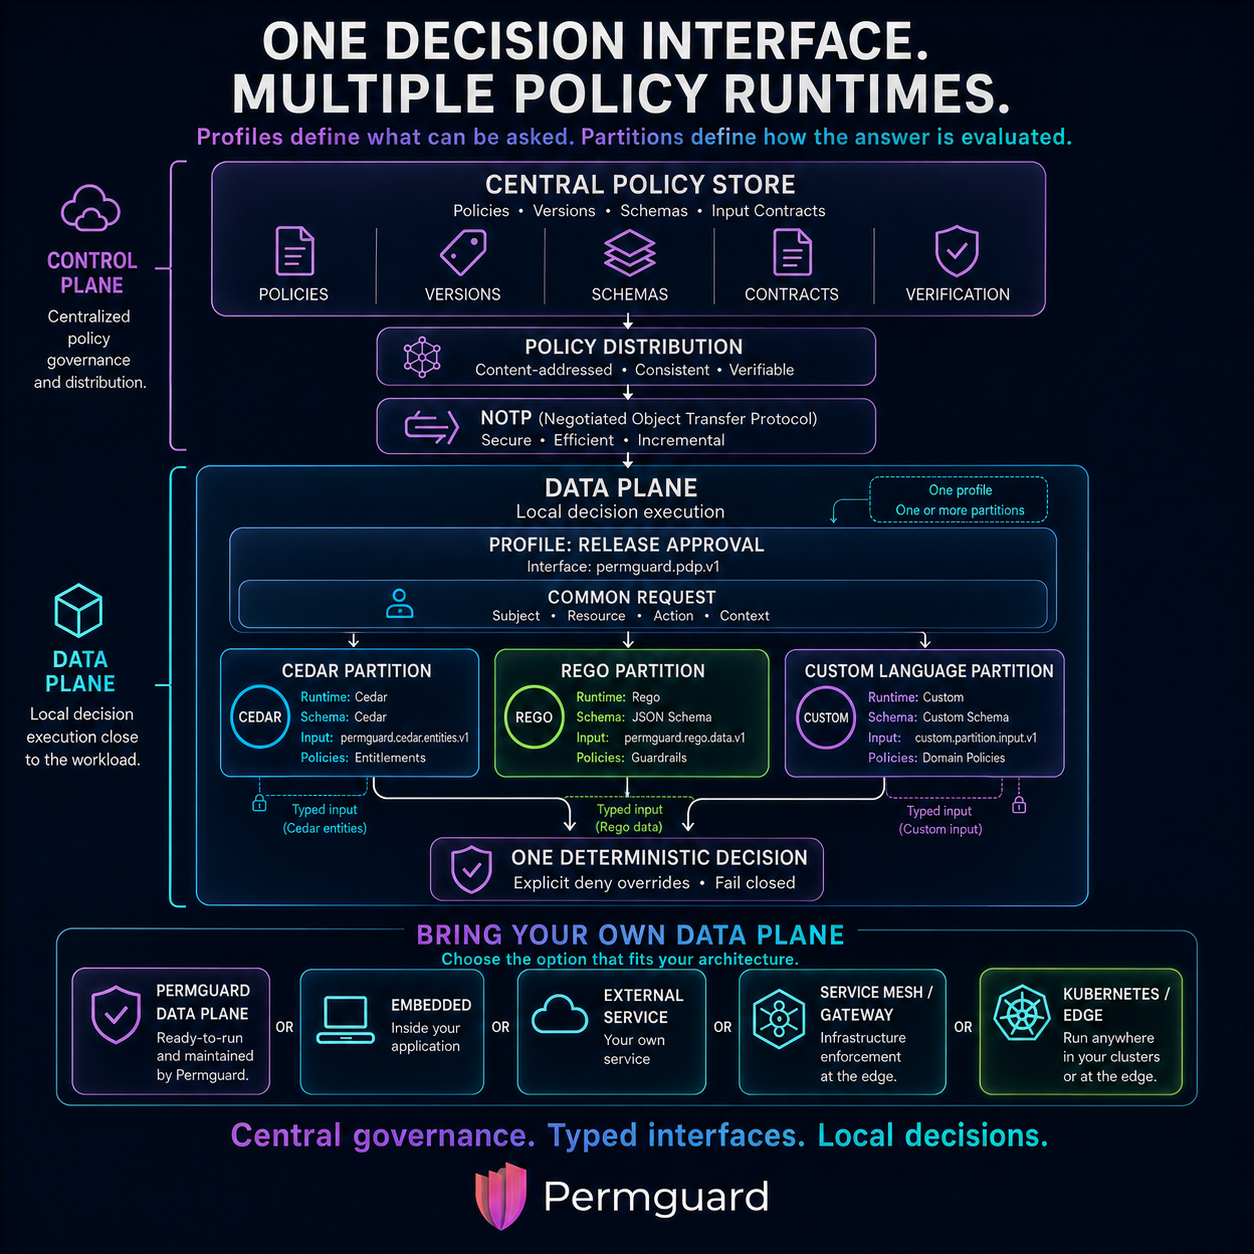
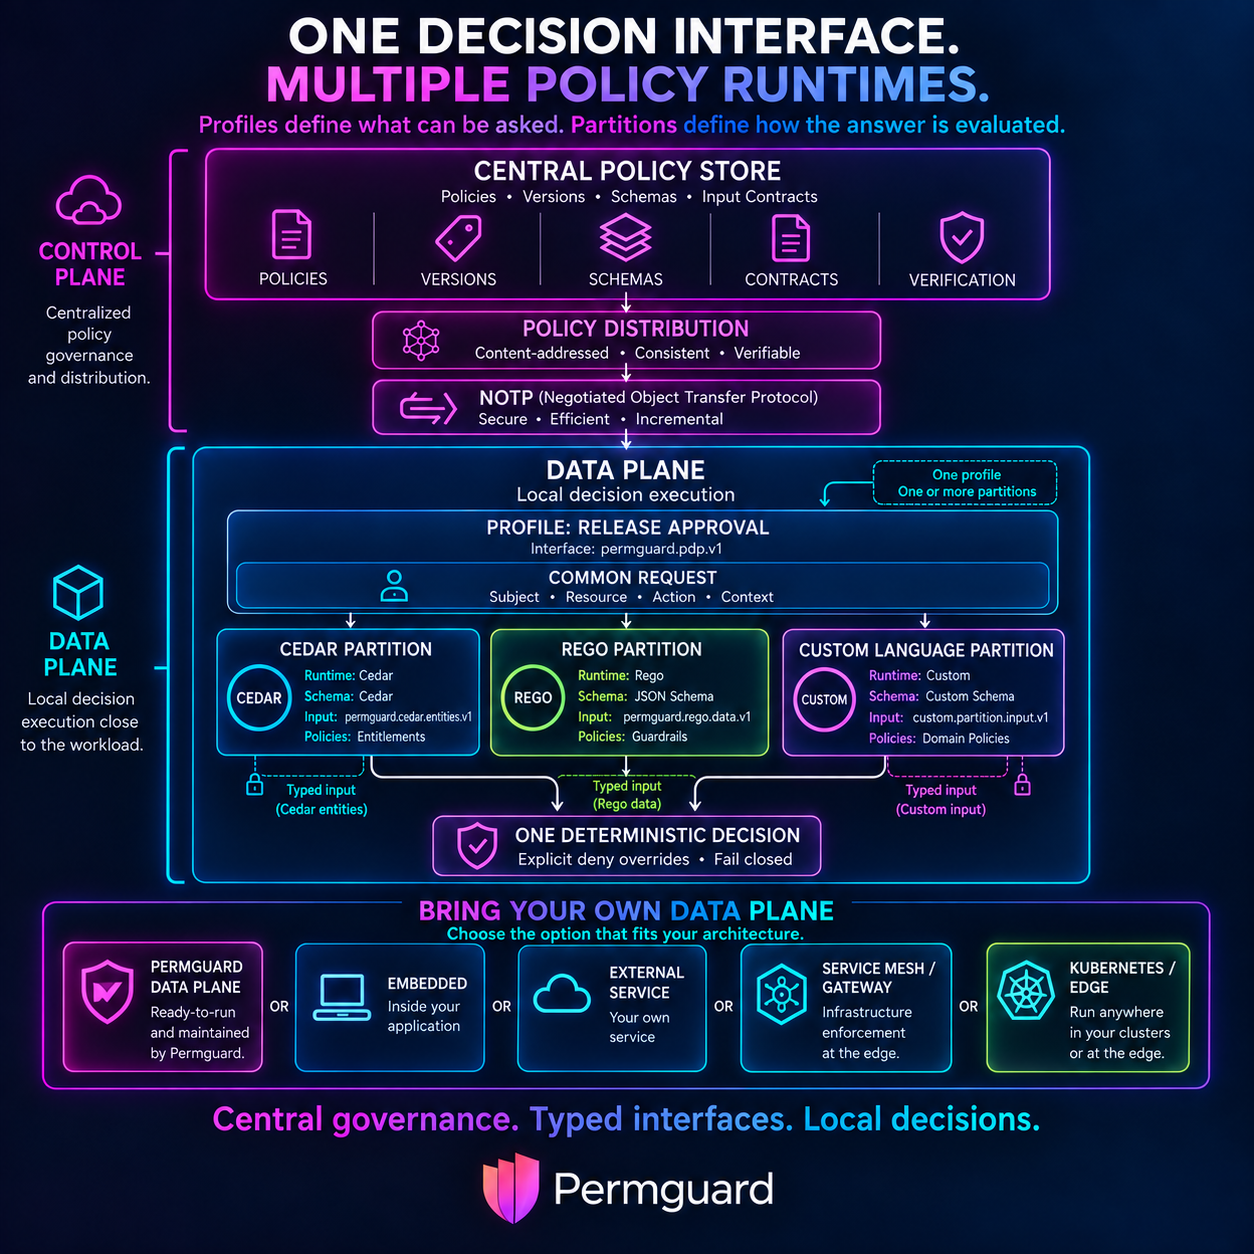
refactor: working on permguard agentic fabric

diff --git a/README.md b/README.md
@@ -1,137 +1,65 @@
+<!-- Copyright (c) 2022 Nitro Agility S.r.l. -->
+<!-- SPDX-License-Identifier: Apache-2.0 -->
+
 # Permguard
 
+[![GitHub Org's stars](https://img.shields.io/github/stars/permguard)](https://github.com/permguard/permguard/stargazers)
+[![GitHub forks](https://img.shields.io/github/forks/permguard/permguard)](https://github.com/permguard/permguard/network/members)
+[![GitHub Issues or Pull Requests](https://img.shields.io/github/issues/permguard/permguard)](https://github.com/permguard/permguard/issues)
+[![GitHub Issues or Pull Requests](https://img.shields.io/github/issues-pr/permguard/permguard)](https://github.com/permguard/permguard/pulls)
+[![GitHub contributors](https://img.shields.io/github/contributors/permguard/permguard)](https://github.com/permguard/permguard/graphs/contributors)
+[![GitHub License](https://img.shields.io/github/license/permguard/permguard)](https://github.com/permguard/permguard/blob/main/LICENSE)
+[![X (formerly Twitter) Follow](https://img.shields.io/twitter/follow/permguard)](https://x.com/intent/follow?original_referer=https%3A%2F%2Fdeveloper.x.com%2F&ref_src=twsrc%5Etfw%7Ctwcamp%5Ebuttonembed%7Ctwterm%5Efollow%7Ctwgr%5ETwitterDev&screen_name=Permguard)
+
 <p align="center">
-  <img src="assets/permguard-banner.png" alt="Permguard" width="820">
+  <img src="https://raw.githubusercontent.com/permguard/.github/main/assets/permguard-platform-banner.png" alt="Permguard" width="820">
+</p>
+
+**Authorization and trusted execution, versioned like code and shipped like code.**
+
+Permguard is an open-source platform for authorization and trusted execution, created by [Nitro Agility](https://www.nitroagility.com/).
+It is made of two projects that share one model: authority is versioned, signed, and verifiable after the fact.
+**Permguard** decides what a subject may do, from policies kept in a content-addressed ledger.
+**Permguard Agentic Fabric** carries that authority into the execution of AI agents, so that what an agent does never exceeds what it was granted.
+
+## Permguard
+
+<p align="center">
+  <img src="https://raw.githubusercontent.com/permguard/.github/main/assets/permguard-banner.png" alt="Permguard" width="820">
 </p>
 
 **Authorization policy, versioned like code and shipped like code.**
 
-Permguard keeps your policies in a content-addressed, Git-like ledger, distributes signed
-versions over a protocol built for it, and answers `can this subject do this to this?` —
-either from its own data plane, or from **inside your process, at zero network cost**.
+Permguard keeps your policies in a content-addressed, Git-like ledger and distributes signed versions over a protocol built for it.
+It answers `can this subject do this to this?` either from its own data plane, or from inside your process, at zero network cost.
 
-```text
-       authors + CI                     ┌──────────────────┐
-            │                           │  CONTROL  PLANE  │        the ledger
-     permguard apply ────── NOTP ──────►│                  │   commits · trees · blobs
-            │                           │  zones · ledgers │   signed heads · audit
-            │                           └────────┬─────────┘
-            │                                    │  NOTP: pull the objects,
-            ▼                                    │  verify the signed head
-    ┌───────────────┐                            │
-    │   workspace   │                ┌───────────┴───────────┐
-    │  manifest.yml │                ▼                       ▼
-    │  cedar/ rego/ │       ┌─────────────────┐    ┌───────────────────────┐
-    │  requests/    │       │   DATA  PLANE   │    │   YOUR  RUNTIME       │
-    │  tests/       │       │  Permguard PDP  │    │  embed · sidecar      │
-    └───────┬───────┘       │  HTTP · gRPC    │    │  same objects,        │
-            │               └────────┬────────┘    │  same engines         │
-    permguard test                   │             └───────────┬───────────┘
-   (decide it offline,               └──────────┬──────────────┘
-    no plane at all)                            │
-                                       decisions + signed log
-                                                │
-                                                ▼
-                                        back to the control plane,
-                                        verifiable after the fact
-```
+- **Policy is a repository**, not a blob: every decision cites the exact commit and the identity of the policy that decided it.
+- **One question, many engines**: a ledger holds Cedar and Rego partitions side by side, with Dogwood as an experimental third, and an explicit deny from any partition wins.
+- **Bring your own data plane**: pull the ledger and evaluate in your own process, with the same manifest, the same engines, and the same answer.
+- **Decisions are evidence**: every decision can be recorded in a hash-chained log and verified afterwards by somebody who does not trust the plane that wrote it.
 
-## Why this is not another policy server
+Repository: [permguard/permguard](https://github.com/permguard/permguard).
+Documentation: [docs.permguard.com](https://docs.permguard.com/).
 
-**Policy is a repository, not a blob.** `init`, `validate`, `plan`, `apply`, `pull`, `history` —
-a workspace on disk, commits, trees and blobs, all content-addressed. A decision does not cite
-"the policy that was live"; it cites the **exact commit** and the **identity of the policy** that
-decided, and those identities survive a rename. You can check out the state a decision was made
-against, months later, and re-ask the question.
+## Permguard Agentic Fabric
 
-**One question, many engines.** A ledger holds **partitions** — Cedar here, Rego there — and a
-**profile** says which of them answer. `admin` consults the org chart *and* the guardrails;
-`pipeline` consults the rules for machines and loads nothing else. An explicit deny from any
-partition beats a permit from another, so "who is entitled" and "is it safe right now" can be
-written by different people, in different languages, and still compose.
+<p align="center">
+  <img src="https://raw.githubusercontent.com/permguard/.github/main/assets/permguard-agentic-fabric-banner.png" alt="Permguard Agentic Fabric" width="820">
+</p>
 
-### Supported policy languages
+**Trusted execution for AI agents, under authority that never expands.**
 
-| Language | Runtime | Decides from | Status |
-| --- | --- | --- | --- |
-| [Cedar](https://www.cedarpolicy.com) | `cedar` (`cedar-policy` 4.x) | the request | stable |
-| [Rego](https://www.openpolicyagent.org/docs/policy-language) | `rego` (`regorus`) | the request | stable |
-| [Dogwood](https://github.com/dogwood-policy/dogwood) | `dogwood` (`amzn-dogwood-language`) | the request **and** a durable history | experimental |
+Permguard Agentic Fabric is the layer where AI agents run and act on the outside world under Permguard's control.
+Agents think and propose.
+The fabric decides what may execute, moves the work across services, and keeps every step bound to the authority it inherited.
 
-A language is a **build**, not a deployment action: all three are compiled in. What a deployment
-chooses is whether a ledger naming a runtime will be *served*, and the experimental one is gated —
-see below.
+It is made of two parts.
+The **Agentic Execution Fabric (AEF)** coordinates distributed execution.
+The **Agentic Trust Fabric (ATF)** preserves trust and authority continuity across that execution.
 
-### Experimental: Dogwood, and deciding from what has happened
+Repository: [permguard/permguard-agentic-fabric](https://github.com/permguard/permguard-agentic-fabric).
 
-Cedar and Rego answer *may this subject do this to this?* from the request in front of them.
-[Dogwood](https://github.com/dogwood-policy/dogwood) is Cedar plus **history**: a policy may ask what has
-happened recently — `formerly`, `since`, aggregations over a window — as well as what is being
-asked now.
-
-```cedar
-@id("read_only_after_login")
-permit (principal, action == Drupe::Action::"Read", resource)
-when temporal {
-  formerly within 1h Drupe::Action::"Login"::response{ input.user: context.input.user }
-};
-```
-
-Answering that takes a durable history, so Dogwood is served through a second interface,
-`permguard.api.pdp.temporal.v1alpha1`: an occurrence is recorded into a hash-chained journal, made
-durable, observed, and only then decided against. Upstream supplies the language, its lowering to
-Cedar, validation and the per-request authorizer, and is explicit that its included interpreter is a
-**reference** implementation rather than a production one. Permguard supplies what a deployment
-needs around it — the policy lifecycle, multi-tenancy, a durable and bounded event history,
-provenance, replication, limits and operational safety.
-
-It is **experimental**, and gated by two switches that must both be set:
-
-```yaml
-experimental:
-  dogwood:
-    enabled: "true"        # this deployment accepts a contract that is not yet stable
-
-dataPlane:
-  events:
-    enabled: "true"        # this plane keeps a durable event history
-    producer_id: data-plane-eu-1
-```
-
-Saying one and not the other refuses to start, by name. `v1alpha1` is honest: the wire and
-replication shapes may still change, and the switch is what makes accepting that a decision rather
-than a default that moved.
-
-Working configurations ship as `config.local-dogwood.yml` beside each server crate, and
-[`examples/dogwood-session-access`](https://github.com/permguard/permguard/tree/main/examples/dogwood-session-access) is a whole ledger — schemas,
-policies, and a test that asserts the verdicts its README claims. The contract is documented under
-[Temporal Interface](https://docs.permguard.com/data-plane/temporal-interface).
-
-**Bring your own data plane.** The objects are self-describing and the engines are a library.
-Run Permguard's data plane, or pull the ledger and evaluate **in your own process** — no PDP hop,
-no network on the decision path, the same manifest, the same engines, the same answer.
-`permguard test` is that path, in the CLI: it decides a workspace off disk, before anything is
-pushed anywhere.
-
-**NOTP, not "an API".** Policy distribution is content-addressed transfer with negotiation — send
-what the other side is missing, and nothing else — over HTTP or gRPC, with a **signed head** at
-the end of it. A data plane refuses a ledger whose head it cannot verify, and refuses one whose
-engine range it is outside: an engine interpreting the same policies differently is a silent
-authorization bypass, not a compatibility note.
-
-**Decisions are evidence.** Every decision can be recorded with the commit, the policy identity,
-the reason, and **keyed commitments** over what the caller supplied — proof of the inputs without
-keeping them. The log is hash-chained, shipped to the control plane, and verifiable afterwards by
-somebody who does not trust the plane that wrote it.
-
-**An interface Permguard owns.** `permguard.api.pdp.native.v1` is Permguard's native policy
-decision interface, designed for profile-based decisions evaluated across one or more heterogeneous
-policy partitions. It is not an implementation of, nor a compatibility claim for, anybody else's
-authorization API. The shape will look familiar — a subject, an action, a resource, a context in; a
-decision and a reason out — because that is the obvious shape for the question. What owning it
-buys is that the parts nobody else specifies are specified *here*, in
-[`crates/permguard-languages/src/request.rs`](https://github.com/permguard/permguard/blob/main/crates/permguard-languages/src/request.rs), and can
-change when Permguard needs them to. No badge, and no promise somebody else's document still
-holds.
+> Early stage.
+> Documentation and code will follow.
 
 Created by [Nitro Agility](https://www.nitroagility.com/).

diff --git a/profile/README.md b/profile/README.md
@@ -1,3 +1,6 @@
+<!-- Copyright (c) 2022 Nitro Agility S.r.l. -->
+<!-- SPDX-License-Identifier: Apache-2.0 -->
+
 # Permguard
 
 [![GitHub Org's stars](https://img.shields.io/github/stars/permguard)](https://github.com/permguard/permguard/stargazers)
@@ -9,137 +12,54 @@
 [![X (formerly Twitter) Follow](https://img.shields.io/twitter/follow/permguard)](https://x.com/intent/follow?original_referer=https%3A%2F%2Fdeveloper.x.com%2F&ref_src=twsrc%5Etfw%7Ctwcamp%5Ebuttonembed%7Ctwterm%5Efollow%7Ctwgr%5ETwitterDev&screen_name=Permguard)
 
 <p align="center">
-  <img src="../assets/permguard-banner.png" alt="Permguard" width="820">
+  <img src="https://raw.githubusercontent.com/permguard/.github/main/assets/permguard-platform-banner.png" alt="Permguard" width="820">
+</p>
+
+**Authorization and trusted execution, versioned like code and shipped like code.**
+
+Permguard is an open-source platform for authorization and trusted execution, created by [Nitro Agility](https://www.nitroagility.com/).
+It is made of two projects that share one model: authority is versioned, signed, and verifiable after the fact.
+**Permguard** decides what a subject may do, from policies kept in a content-addressed ledger.
+**Permguard Agentic Fabric** carries that authority into the execution of AI agents, so that what an agent does never exceeds what it was granted.
+
+## Permguard
+
+<p align="center">
+  <img src="https://raw.githubusercontent.com/permguard/.github/main/assets/permguard-banner.png" alt="Permguard" width="820">
 </p>
 
 **Authorization policy, versioned like code and shipped like code.**
 
-Permguard keeps your policies in a content-addressed, Git-like ledger, distributes signed
-versions over a protocol built for it, and answers `can this subject do this to this?` —
-either from its own data plane, or from **inside your process, at zero network cost**.
+Permguard keeps your policies in a content-addressed, Git-like ledger and distributes signed versions over a protocol built for it.
+It answers `can this subject do this to this?` either from its own data plane, or from inside your process, at zero network cost.
 
-```text
-       authors + CI                     ┌──────────────────┐
-            │                           │  CONTROL  PLANE  │        the ledger
-     permguard apply ────── NOTP ──────►│                  │   commits · trees · blobs
-            │                           │  zones · ledgers │   signed heads · audit
-            │                           └────────┬─────────┘
-            │                                    │  NOTP: pull the objects,
-            ▼                                    │  verify the signed head
-    ┌───────────────┐                            │
-    │   workspace   │                ┌───────────┴───────────┐
-    │  manifest.yml │                ▼                       ▼
-    │  cedar/ rego/ │       ┌─────────────────┐    ┌───────────────────────┐
-    │  requests/    │       │   DATA  PLANE   │    │   YOUR  RUNTIME       │
-    │  tests/       │       │  Permguard PDP  │    │  embed · sidecar      │
-    └───────┬───────┘       │  HTTP · gRPC    │    │  same objects,        │
-            │               └────────┬────────┘    │  same engines         │
-    permguard test                   │             └───────────┬───────────┘
-   (decide it offline,               └──────────┬──────────────┘
-    no plane at all)                            │
-                                       decisions + signed log
-                                                │
-                                                ▼
-                                        back to the control plane,
-                                        verifiable after the fact
-```
+- **Policy is a repository**, not a blob: every decision cites the exact commit and the identity of the policy that decided it.
+- **One question, many engines**: a ledger holds Cedar and Rego partitions side by side, with Dogwood as an experimental third, and an explicit deny from any partition wins.
+- **Bring your own data plane**: pull the ledger and evaluate in your own process, with the same manifest, the same engines, and the same answer.
+- **Decisions are evidence**: every decision can be recorded in a hash-chained log and verified afterwards by somebody who does not trust the plane that wrote it.
 
-## Why this is not another policy server
+Repository: [permguard/permguard](https://github.com/permguard/permguard).
+Documentation: [docs.permguard.com](https://docs.permguard.com/).
 
-**Policy is a repository, not a blob.** `init`, `validate`, `plan`, `apply`, `pull`, `history` —
-a workspace on disk, commits, trees and blobs, all content-addressed. A decision does not cite
-"the policy that was live"; it cites the **exact commit** and the **identity of the policy** that
-decided, and those identities survive a rename. You can check out the state a decision was made
-against, months later, and re-ask the question.
+## Permguard Agentic Fabric
 
-**One question, many engines.** A ledger holds **partitions** — Cedar here, Rego there — and a
-**profile** says which of them answer. `admin` consults the org chart *and* the guardrails;
-`pipeline` consults the rules for machines and loads nothing else. An explicit deny from any
-partition beats a permit from another, so "who is entitled" and "is it safe right now" can be
-written by different people, in different languages, and still compose.
+<p align="center">
+  <img src="https://raw.githubusercontent.com/permguard/.github/main/assets/permguard-agentic-fabric-banner.png" alt="Permguard Agentic Fabric" width="820">
+</p>
 
-### Supported policy languages
+**Trusted execution for AI agents, under authority that never expands.**
 
-| Language | Runtime | Decides from | Status |
-| --- | --- | --- | --- |
-| [Cedar](https://www.cedarpolicy.com) | `cedar` (`cedar-policy` 4.x) | the request | stable |
-| [Rego](https://www.openpolicyagent.org/docs/policy-language) | `rego` (`regorus`) | the request | stable |
-| [Dogwood](https://github.com/dogwood-policy/dogwood) | `dogwood` (`amzn-dogwood-language`) | the request **and** a durable history | experimental |
+Permguard Agentic Fabric is the layer where AI agents run and act on the outside world under Permguard's control.
+Agents think and propose.
+The fabric decides what may execute, moves the work across services, and keeps every step bound to the authority it inherited.
 
-A language is a **build**, not a deployment action: all three are compiled in. What a deployment
-chooses is whether a ledger naming a runtime will be *served*, and the experimental one is gated —
-see below.
+It is made of two parts.
+The **Agentic Execution Fabric (AEF)** coordinates distributed execution.
+The **Agentic Trust Fabric (ATF)** preserves trust and authority continuity across that execution.
 
-### Experimental: Dogwood, and deciding from what has happened
+Repository: [permguard/permguard-agentic-fabric](https://github.com/permguard/permguard-agentic-fabric).
 
-Cedar and Rego answer *may this subject do this to this?* from the request in front of them.
-[Dogwood](https://github.com/dogwood-policy/dogwood) is Cedar plus **history**: a policy may ask what has
-happened recently — `formerly`, `since`, aggregations over a window — as well as what is being
-asked now.
-
-```cedar
-@id("read_only_after_login")
-permit (principal, action == Drupe::Action::"Read", resource)
-when temporal {
-  formerly within 1h Drupe::Action::"Login"::response{ input.user: context.input.user }
-};
-```
-
-Answering that takes a durable history, so Dogwood is served through a second interface,
-`permguard.api.pdp.temporal.v1alpha1`: an occurrence is recorded into a hash-chained journal, made
-durable, observed, and only then decided against. Upstream supplies the language, its lowering to
-Cedar, validation and the per-request authorizer, and is explicit that its included interpreter is a
-**reference** implementation rather than a production one. Permguard supplies what a deployment
-needs around it — the policy lifecycle, multi-tenancy, a durable and bounded event history,
-provenance, replication, limits and operational safety.
-
-It is **experimental**, and gated by two switches that must both be set:
-
-```yaml
-experimental:
-  dogwood:
-    enabled: "true"        # this deployment accepts a contract that is not yet stable
-
-dataPlane:
-  events:
-    enabled: "true"        # this plane keeps a durable event history
-    producer_id: data-plane-eu-1
-```
-
-Saying one and not the other refuses to start, by name. `v1alpha1` is honest: the wire and
-replication shapes may still change, and the switch is what makes accepting that a decision rather
-than a default that moved.
-
-Working configurations ship as `config.local-dogwood.yml` beside each server crate, and
-[`examples/dogwood-session-access`](https://github.com/permguard/permguard/tree/main/examples/dogwood-session-access) is a whole ledger — schemas,
-policies, and a test that asserts the verdicts its README claims. The contract is documented under
-[Temporal Interface](https://docs.permguard.com/data-plane/temporal-interface).
-
-**Bring your own data plane.** The objects are self-describing and the engines are a library.
-Run Permguard's data plane, or pull the ledger and evaluate **in your own process** — no PDP hop,
-no network on the decision path, the same manifest, the same engines, the same answer.
-`permguard test` is that path, in the CLI: it decides a workspace off disk, before anything is
-pushed anywhere.
-
-**NOTP, not "an API".** Policy distribution is content-addressed transfer with negotiation — send
-what the other side is missing, and nothing else — over HTTP or gRPC, with a **signed head** at
-the end of it. A data plane refuses a ledger whose head it cannot verify, and refuses one whose
-engine range it is outside: an engine interpreting the same policies differently is a silent
-authorization bypass, not a compatibility note.
-
-**Decisions are evidence.** Every decision can be recorded with the commit, the policy identity,
-the reason, and **keyed commitments** over what the caller supplied — proof of the inputs without
-keeping them. The log is hash-chained, shipped to the control plane, and verifiable afterwards by
-somebody who does not trust the plane that wrote it.
-
-**An interface Permguard owns.** `permguard.api.pdp.native.v1` is Permguard's native policy
-decision interface, designed for profile-based decisions evaluated across one or more heterogeneous
-policy partitions. It is not an implementation of, nor a compatibility claim for, anybody else's
-authorization API. The shape will look familiar — a subject, an action, a resource, a context in; a
-decision and a reason out — because that is the obvious shape for the question. What owning it
-buys is that the parts nobody else specifies are specified *here*, in
-[`crates/permguard-languages/src/request.rs`](https://github.com/permguard/permguard/blob/main/crates/permguard-languages/src/request.rs), and can
-change when Permguard needs them to. No badge, and no promise somebody else's document still
-holds.
+> Early stage.
+> Documentation and code will follow.
 
 Created by [Nitro Agility](https://www.nitroagility.com/).
